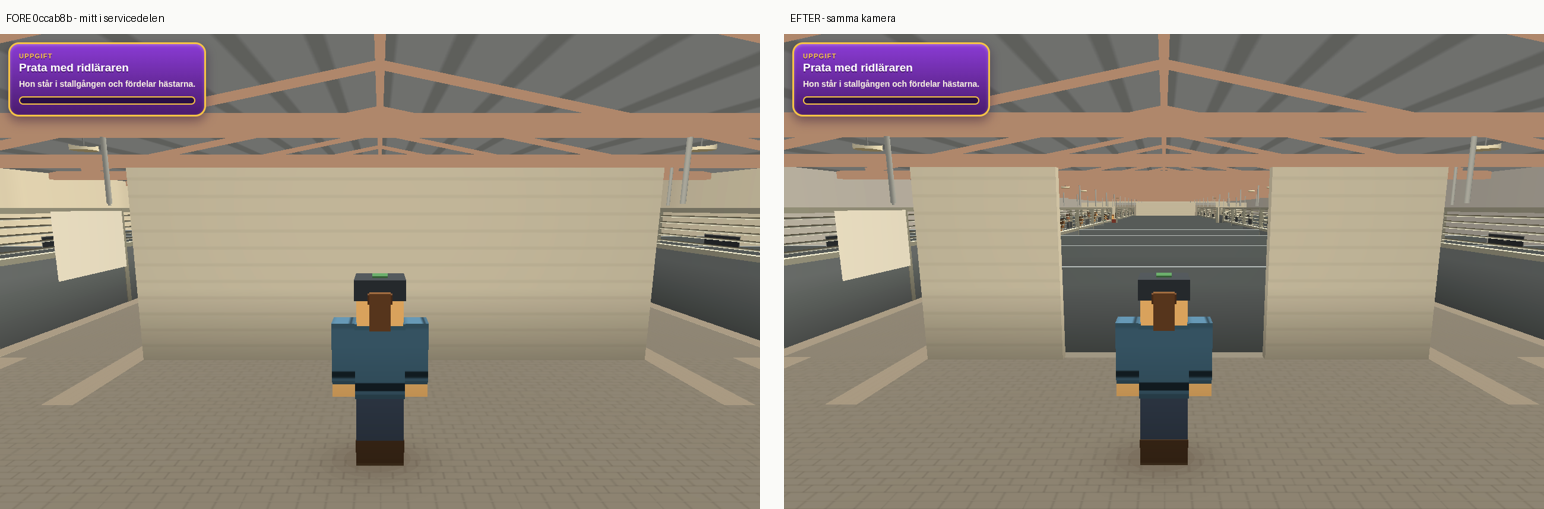
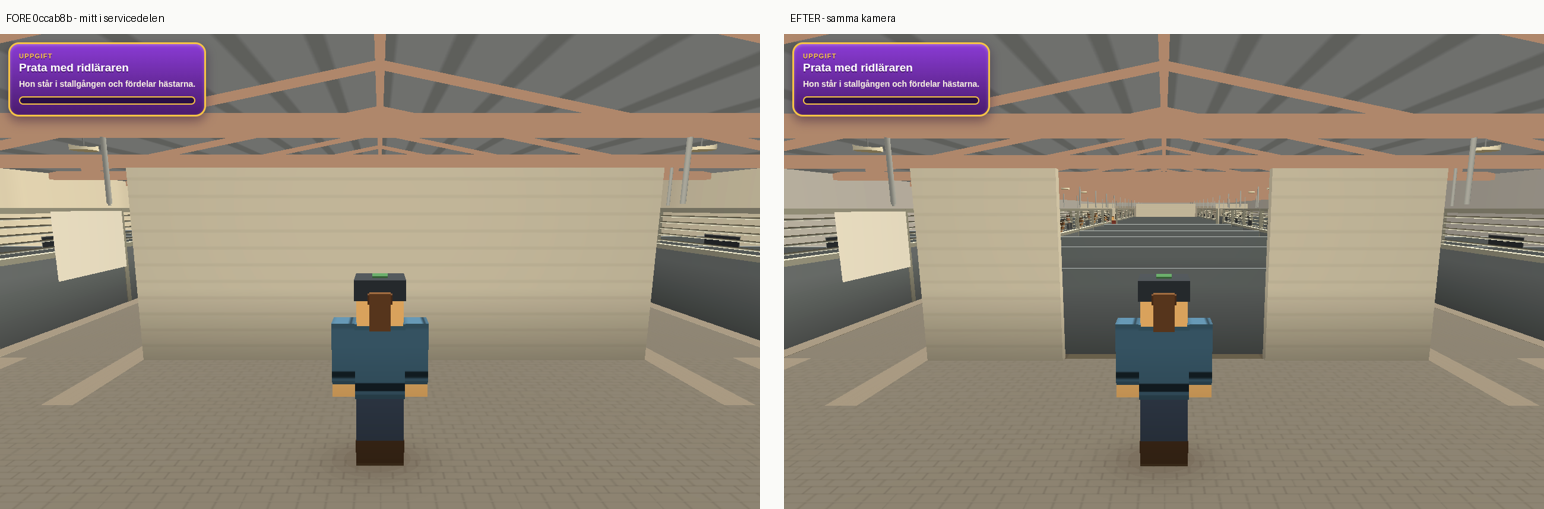
Kalibrering av servicezonen: vit botten och fel väggmaterial var orsaken
Reviewens sista blockerare. Regeln var att identifiera vilka ytor som orsakade
ljusheten, inte att mörka ner scenen.

Metod: en ID-rendering där varje kandidatyta fick en unik platt färg, vars mask
sedan lades på den riktiga bilden. Då mättes varje yta exakt där den syns, i
stället för på gissade provrutor.

Orsakerna: ytterväggarna och golvplattan låg på ren vit botten under sina
texturer — vit är inte ett mätt värde, och en vit botten under en ljus textur
ÄR den krämfärgade korridoren. Väggen hade dessutom fel MATERIAL: T.parlspont,
en varm träpaneltextur, på en vägg som i i09 och i07 är slät och målad.
Renderad #B9AE93 mot fotots kalla #C1C0C3, med skillnaden nästan helt i blått.
Texturen är borttagen i stället för kompenserad. Betongremsan var 1,11 gånger
för ljus och får ett skalärt avdrag i renderaren.

RÄTTELSE: jag skrev i förra passet att stallscenen varken byggde ytterväggar
eller golv. Fel — båda fanns på rad 81–90, och jag byggde en dubblett ovanpå
dem. Dubbletten är borttagen. Felet förklarar varför min första färgändring
inte gav utslag: jag ändrade väggar som låg bakom de riktiga.

RENDERING LIMITATION: väggen renderas nu MÖRKARE än fotot, inte ljusare. Den
vetter bort från armaturerna och får nästan bara ambient — renderat/råvara är
0,74/0,71/0,65, så råvaran skulle behöva ligga kring rgb(262,271,302) för att
nå fram. Utanför 8 bitar. Väggen ligger kvar på sitt mätta värde och
avvikelsen redovisas enligt reviewens punkt 7 i stället för att lösas med
[…]

diff --git a/src/varld3d.js b/src/varld3d.js
@@ -784,47 +784,6 @@ function v3dStall(lagg,opp){
      hela gången — och en ljus spånremsa längs boxfronterna på båda
      sidor. Remsan är det första ögat läser i filmen; utan den blir
      gången en enfärgad korridor. */
-  /* YTTERVÄGGARNA OCH GOLVET.
-
-     `KNOWN MISMATCH`, hittad när den underkända spelarvyn reproducerades:
-     stallscenen byggde ALDRIG några ytterväggar och inget golv. Allt utanför
-     boxraderna var utomhusmarken som lyste igenom. Spelaren stod i ett stall
-     utan väggar, och den ljusa ytan som lästes som "krämfärgad korridor" var
-     till stor del gårdsplanen.
-
-     Väggfärgen är mätt ur stall-inne-09. Södra gaveln byggs i bitar runt
-     gaveldörren, så att dagsljuset syns. */
-  const skal=new Bygge();
-  /* Väggen står på sitt MÄTTA värde, utan kompensation.
-
-     Jag försökte kompensera den kanalvis (0,826/0,775/0,660) och mätte
-     resultatet: väggen renderades #EAEFDC, alltså nästan vit — långt ljusare
-     än fotots #C1C0C3. Det är EXAKT samma överkorrigering som jag redan
-     förkastat en gång i det här passet, på boxfronternas reglar. En kanalvis
-     invertering av en belyst yta spränger den. Kompensationen är borttagen;
-     ytan ligger på det mätta värdet och avviker hellre nedåt. */
-  const VAGG=S.vagg;
-  /* Golvet ligger strax över 0 så att det inte delar plan med utomhusmarken.
-     (Det var INTE förklaringen till den ljusa ytan i entrévyn — den
-     hypotesen föll. Ett magentatest visade att ytan var servicedelens egen
-     betongplatta. Lyftet står kvar för att det är rätt ändå.) */
-  skal.yta(S.bredd,S.langd,S.golv,M4.translation(vx,0.012,S.langd/2),12);
-  /* Fodret ligger INNANFÖR fotavtrycket, inte på det. Lades det på x=0 och
-     x=bredd hamnade det i samma plan som husets ytterväggar från
-     exteriörmodellen, och då vann panelen utifrån — spelarvyn visade
-     liggande fasadpanel INIFRÅN stallet. Det var det som lästes som
-     "krämfärgad korridor", inte servicerummen. */
-  const VT=0.20, VH=S.tak, INS=0.06;
-  for(const sida of [INS,S.bredd-INS])                // långsidorna
-    skal.lada(VT,VH,S.langd,VAGG,M4.translation(sida,VH/2,S.langd/2));
-  skal.lada(S.bredd,VH,VT,VAGG,M4.translation(vx,VH/2,S.langd-INS));
-  {const G2=S.gaveloppning;
-   const bitar=G2?[[0,G2.x],[G2.x+G2.bredd,S.bredd]]:[[0,S.bredd]];
-   for(const [x0,x1] of bitar) if(x1-x0>0.05)
-     skal.lada(x1-x0,VH,VT,VAGG,M4.translation((x0+x1)/2,VH/2,INS));
-   if(G2) skal.lada(G2.bredd,VH-G2.hojd,VT,VAGG,
-     M4.translation(G2.x+G2.bredd/2,G2.hojd+(VH-G2.hojd)/2,INS));}
-  lagg(skal,null);
 
   const sten=new Bygge(), remsa=new Bygge();
   /* Golvfärgerna är MÄTTA och står i site.js. Här ligger bara den uppmätta
@@ -858,16 +817,46 @@ function v3dStall(lagg,opp){
     }
   }
   lagg(span,T.span);
-  lagg(new Bygge().yta(S.bredd,S.langd,"#FFFFFF",
+  /* Golvplattan låg på ren vit botten under betongtexturen. Vit är inte ett
+     mätt värde, och tillsammans med texturen blev plattan en av de ljusa
+     ytorna i den underkända vyn. Den läser nu STALLINNE.golv. */
+  lagg(new Bygge().yta(S.bredd,S.langd,S.golv,
     M4.translation(vx,0.005,S.langd/2),14),T.betong);
 
-  /* Ytterväggar och tak. */
+  /* YTTERVÄGGARNA.
+
+     De här fanns hela tiden — jag påstod i ett tidigare pass att stallscenen
+     saknade ytterväggar och byggde en egen uppsättning ovanpå dem. Fel, och
+     dubbletten är borttagen. Det som var fel var FÄRGEN: väggarna låg på ren
+     vit botten under pärlspontstexturen. Vit är inte ett mätt värde, och en
+     vit botten under en ljus textur är precis den krämfärgade korridor som
+     underkändes.
+
+     En ID-rendering med unik platt färg per yta avgjorde det: de stora ljusa
+     väggarna i spelarvyn hade INGEN av mina färger, alltså kom de varken från
+     mina nya väggar eller från STALLINNE.vagg. De kom härifrån.
+
+     Väggen läser nu det MÄTTA `#C1C0C3` ur stall-inne-09, och södra gaveln
+     byggs i bitar runt gaveldörren så att dagsljuset syns. */
   const vagg=new Bygge();
-  vagg.lada(S.bredd+0.4,S.tak,0.25,"#FFFFFF",M4.translation(vx,S.tak/2,-0.1));
-  vagg.lada(S.bredd+0.4,S.tak,0.25,"#FFFFFF",M4.translation(vx,S.tak/2,S.langd+0.1));
-  vagg.lada(0.25,S.tak,S.langd,"#FFFFFF",M4.translation(-0.1,S.tak/2,S.langd/2));
-  vagg.lada(0.25,S.tak,S.langd,"#FFFFFF",M4.translation(S.bredd+0.1,S.tak/2,S.langd/2));
-  lagg(vagg,T.parlspont);
+  vagg.lada(S.bredd+0.4,S.tak,0.25,S.vagg,M4.translation(vx,S.tak/2,S.langd+0.1));
+  vagg.lada(0.25,S.tak,S.langd,S.vagg,M4.translation(-0.1,S.tak/2,S.langd/2));
+  vagg.lada(0.25,S.tak,S.langd,S.vagg,M4.translation(S.bredd+0.1,S.tak/2,S.langd/2));
+  {const G2=S.gaveloppning;
+   const bitar=G2?[[-0.2,G2.x],[G2.x+G2.bredd,S.bredd+0.2]]:[[-0.2,S.bredd+0.2]];
+   for(const [x0,x1] of bitar) if(x1-x0>0.05)
+     vagg.lada(x1-x0,S.tak,0.25,S.vagg,M4.translation((x0+x1)/2,S.tak/2,-0.1));
+   if(G2) vagg.lada(G2.bredd,S.tak-G2.hojd,0.25,S.vagg,
+     M4.translation(G2.x+G2.bredd/2,G2.hojd+(S.tak-G2.hojd)/2,-0.1));}
+  /* OBETEXTURERAD. Väggen låg under `T.parlspont` — en varm träpaneltextur —
+     och det var den, inte ljuset, som gjorde ytan gulaktig: renderad #B9AE93
+     mot fotots kalla #C1C0C3. Skillnaden satt nästan helt i blått.
+
+     stall-inne-09 och -07 visar en SLÄT MÅLAD vägg, inte träpanel. Texturen
+     var alltså fel material från början, och att kompensera för den hade
+     varit att laga ett materialfel med en färgjustering. Den tas bort i
+     stället, och väggen ligger på sitt mätta värde. */
+  lagg(vagg,null);
   /* Taket. Formen — sadeltak med korrugerad plåt som undertak, balkar var
      fjärde meter, takfönster i västra fallet och galvade dragstag ner till
      boxarna — kommer ur IMG_0249/0250 och stämmer mot
@@ -1033,9 +1022,9 @@ function v3dStall(lagg,opp){
     const gx=k.x<vx?k.x+k.w:k.x;                    // väggen mot gången
     const ut=k.x<vx?1:-1;                           // in mot gången
     if(!r.oppen){
-      rum.lada(0.16,2.6,k.h,VAGG,M4.translation(gx,1.3,k.y+k.h/2));
-      rum.lada(k.w,2.6,0.16,VAGG,M4.translation(k.x+k.w/2,1.3,k.y));
-      rum.lada(k.w,2.6,0.16,VAGG,M4.translation(k.x+k.w/2,1.3,k.y+k.h));
+      rum.lada(0.16,2.6,k.h,S.vagg,M4.translation(gx,1.3,k.y+k.h/2));
+      rum.lada(k.w,2.6,0.16,S.vagg,M4.translation(k.x+k.w/2,1.3,k.y));
+      rum.lada(k.w,2.6,0.16,S.vagg,M4.translation(k.x+k.w/2,1.3,k.y+k.h));
     }else{
       /* Buktens RYGG mot ytterväggen, i samma mörka panel som boxfronterna
          — stall-inne-09 visar att det är samma produkt. Ingen vägg mot
@@ -1082,10 +1071,17 @@ function v3dStall(lagg,opp){
     /* Betongen är en REMSA längs ytterväggen, inte hela bukten. Ritades den
        över hela rektangeln blev den en stor ljus yta rakt framför spelaren
        — bekräftat med magentatest — och fotot visar marksten i stråket. */
+    /* Betongremsan vetter uppåt och fångar mer ljus än väggarna: mätt genom
+       en ID-mask renderades den #C5B38D mot fotots #AEA28C, alltså 1,11 av
+       råvaran. Ett SKALÄRT avdrag räcker och klipper ingenting — till
+       skillnad från väggen, se auditens RENDERING LIMITATION. */
+    const SGOLV="#"+[1,3,5].map(i=>
+      Math.round(parseInt(S.serviceGolv.substr(i,2),16)/1.11)
+        .toString(16).padStart(2,"0")).join("");
     for(const r of S.service){const k=r.rekt;
       const bw=Math.min(S.serviceGolvBredd||k.w, k.w);
       const bxm=k.x<vx ? k.x+bw/2 : k.x+k.w-bw/2;
-      bg.yta(bw,k.h,S.serviceGolv,
+      bg.yta(bw,k.h,SGOLV,
         M4.translation(bxm,0.022,k.y+k.h/2),4);}
     lagg(bg,null);
   }

diff --git a/audits/GATE-F01-INTERIOR-REAUDIT-2026-08-30.md b/audits/GATE-F01-INTERIOR-REAUDIT-2026-08-30.md
@@ -311,3 +311,77 @@ smal remsa längs väggen med marksten i stråket bredvid. Plattan är nu
 
 Tre hypoteser, två falsifierade, en bekräftad med mätning. Det är metoden;
 gissningen hade varit att måla om väggen.
+
+---
+
+# Kalibreringspasset på servicezonen
+
+Reviewens sista blockerare: zonen läste ljusare än `stall-inne-09`. Regeln var
+att identifiera VILKA ytor som orsakade det, inte att mörka ner scenen.
+
+## Metod: ID-rendering
+
+Jag slutade gissa på provrutor och renderade en **ID-bild** där varje
+kandidatyta fick en unik platt färg. Masken ur den bilden lades sedan på den
+riktiga renderingen, så varje yta mättes exakt där den faktiskt syns.
+
+Det avgjorde på en gång vad tre tidigare hypoteser missat.
+
+## Vad som faktiskt orsakade ljusheten
+
+**1. Ytterväggarna låg på ren vit botten.** `v3dStall` byggde
+`vagg.lada(..., "#FFFFFF", ...)` under pärlspontstexturen. Vit är inte ett
+mätt värde, och en vit botten under en ljus textur ÄR den krämfärgade
+korridoren. Väggen läser nu det mätta `#C1C0C3`.
+
+**2. Golvplattan låg också på vit botten**, under betongtexturen. Läser nu
+`STALLINNE.golv`.
+
+**3. Väggen hade fel MATERIAL, inte fel ljus.** Renderad `#B9AE93` mot fotots
+kalla `#C1C0C3` — skillnaden satt nästan helt i blått. Orsaken var
+`T.parlspont`, en varm träpaneltextur, på en vägg som i i09 och i07 är slät
+och målad. Att kompensera färgen hade varit att laga ett materialfel med en
+färgjustering. Texturen är borttagen i stället.
+
+**4. Betongremsan var 1,11 gånger för ljus** — den vetter uppåt och fångar mer
+ljus än väggarna. Ett skalärt avdrag i renderaren räcker och klipper
+ingenting.
+
+## RÄTTELSE: jag byggde en dubblett
+
+I föregående pass skrev jag att stallscenen "byggde varken ytterväggar eller
+golv". **Det var fel.** Båda fanns sedan tidigare, på rad 81–90 i `v3dStall`.
+Jag byggde en andra uppsättning ovanpå dem. Dubbletten är borttagen, och
+felet står här därför att det förklarar varför min första färgändring inte
+gav något utslag: jag ändrade väggar som låg bakom de riktiga.
+
+Det är tredje gången i det här arbetet som en gissad diagnos kostat ett varv,
+och andra gången ID-/magentatestet var det som avgjorde. Mät ytan först.
+
+## RENDERING LIMITATION — väggen
+
+Mätt genom ID-masken efter rättningarna:
+
+| yta | render | foto | utfall |
+|---|---|---|---|
+| yttervägg | `#8E887E` | `#C1C0C3` | **RENDERING LIMITATION** |
+| betongremsa | `#AFA189` | `#AEA28C` | `RESOLVED` |
+| golvplatta | `#655B48` | ingen direkt motsvarighet | — |
+
+Väggen renderas nu **mörkare** än fotot, inte ljusare. Den vetter inåt, bort
+från armaturerna, och får nästan bara ambient: renderat/råvara är
+0,74 / 0,71 / 0,65. För att nå fotots `#C1C0C3` skulle råvaran behöva ligga
+kring rgb(262, 271, 302) — **utanför 8 bitar**. Det går inte att korrigera
+utan att förfalska det mätta värdet, och en kanalvis invertering har redan
+sprängt två ytor i det här arbetet.
+
+Väggen ligger därför kvar på sitt mätta `#C1C0C3` och avvikelsen redovisas
+som `RENDERING LIMITATION` enligt reviewens punkt 7. Den hör till
+webbrenderarens inomhusljus, inte till byggnaden, och ska inte lösas med
+geometri.
+
+## Bevis
+
+`audits/bilder/stall-entre-fore-efter.png`, `stall-service-fore-efter.png`
+och `stall-service-mot-kalla.png`. Samma kamera i före och efter. Sex specar
+gröna, export i synk, inga konsolfel.
